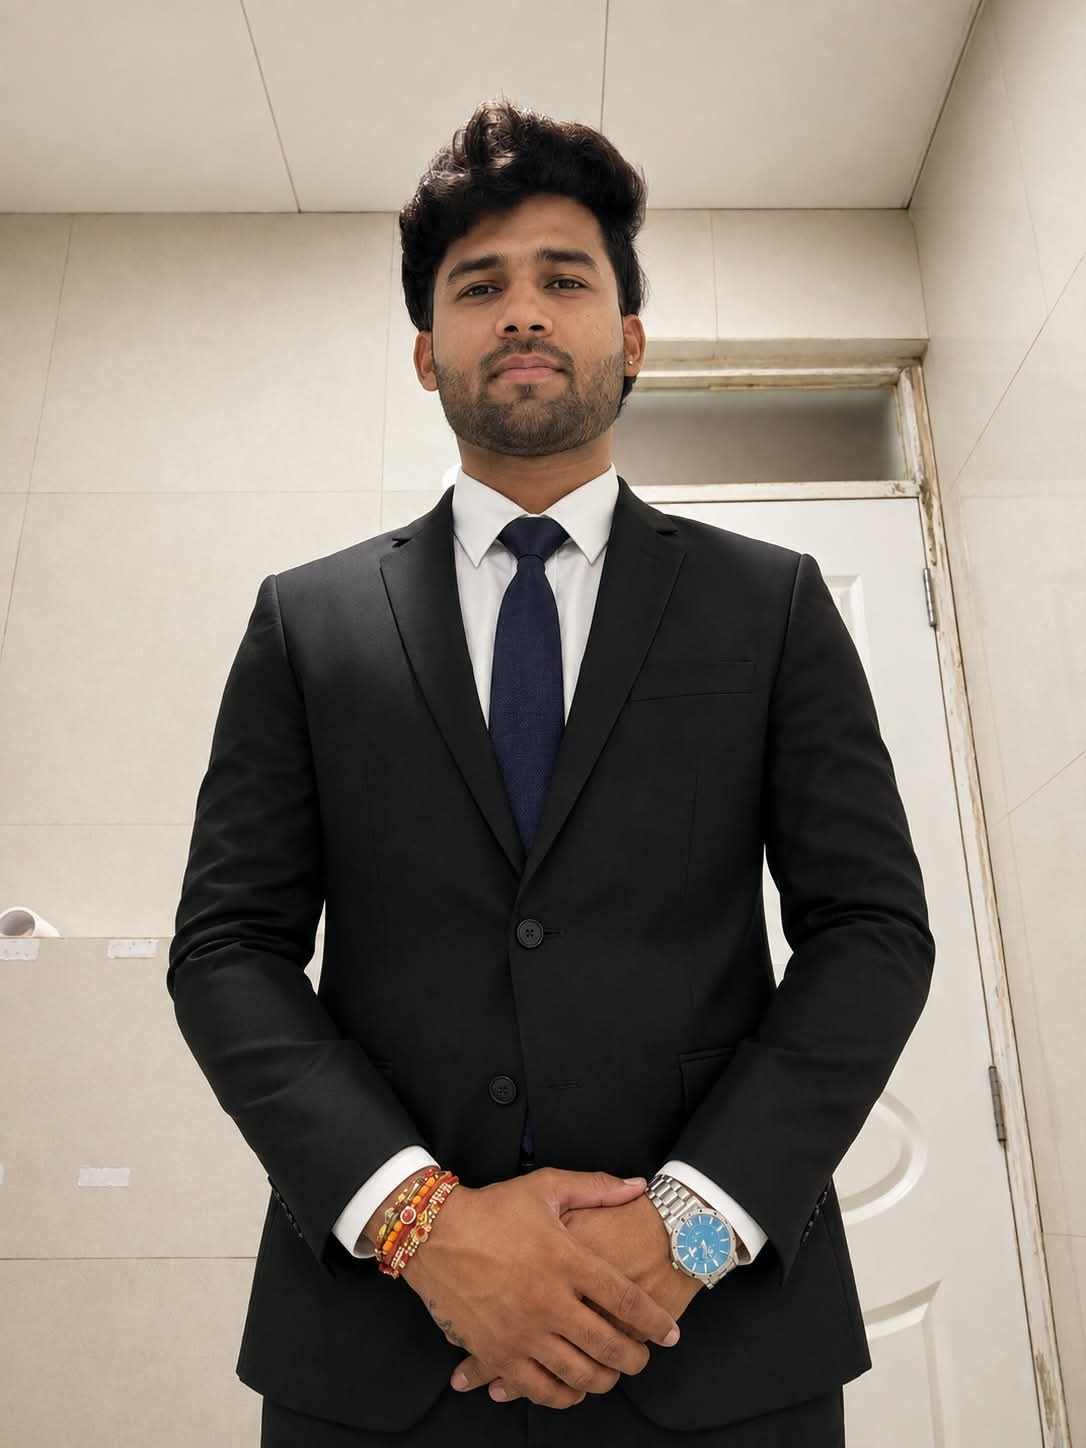
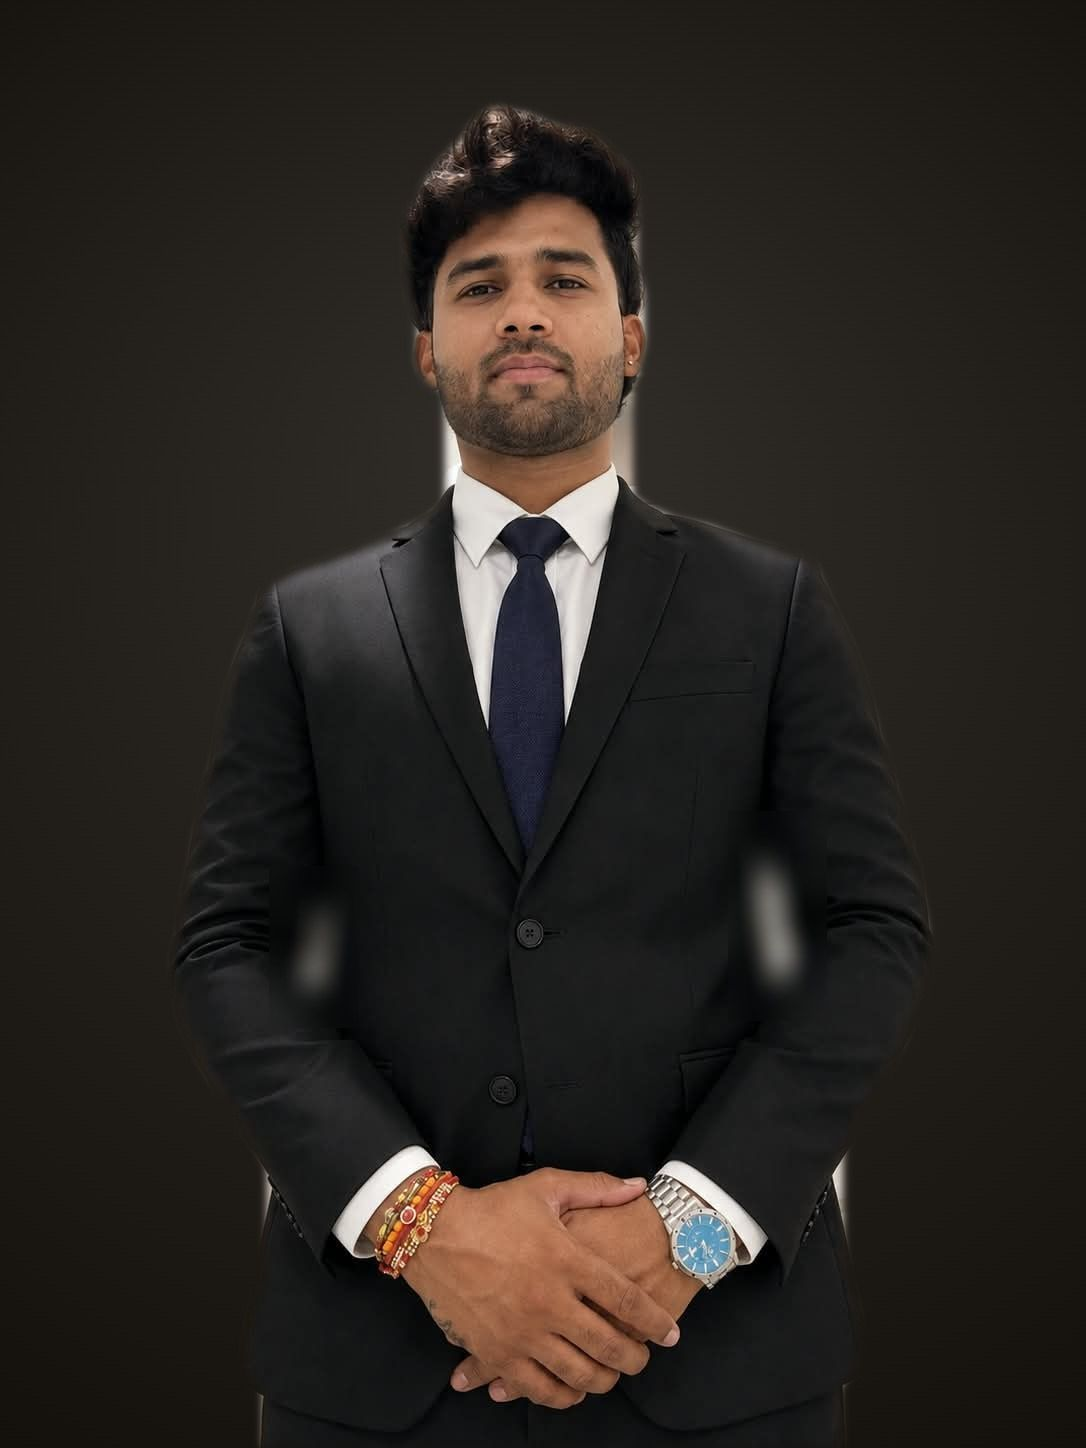
Replace director photo background with a clean professional studio backdrop
- AI-segment the subject out of the original photo (no cropping of the
  person) and composite onto a dark studio gradient background matching
  the site theme, removing the washroom door/tiles from the original shot
- Clean up small segmentation artifacts with local inpainting
- Adjust the About page photo framing to a head-and-shoulders crop

diff --git a/css/style.css b/css/style.css
@@ -128,15 +128,16 @@ ul{list-style:none;}
 
 /* Director card */
 .director-card{
-  display:grid;grid-template-columns:220px 1fr;gap:34px;align-items:center;
+  display:grid;grid-template-columns:240px 1fr;gap:34px;align-items:center;
   background:var(--black-card);border:1px solid rgba(212,175,55,.2);border-radius:var(--radius);
   padding:36px;max-width:680px;margin:0 auto;
 }
 .director-photo{
-  width:220px;height:260px;border-radius:12px;overflow:hidden;
+  width:240px;height:300px;border-radius:12px;overflow:hidden;
   border:2px solid var(--gold);
+  box-shadow:0 14px 30px rgba(0,0,0,.45);
 }
-.director-photo img{width:100%;height:100%;object-fit:cover;object-position:50% 22%;}
+.director-photo img{width:100%;height:100%;object-fit:cover;object-position:50% 4%;}
 .director-info h3{font-size:1.4rem;margin-bottom:4px;}
 .director-info p{margin-top:10px;}
 @media (max-width:600px){
